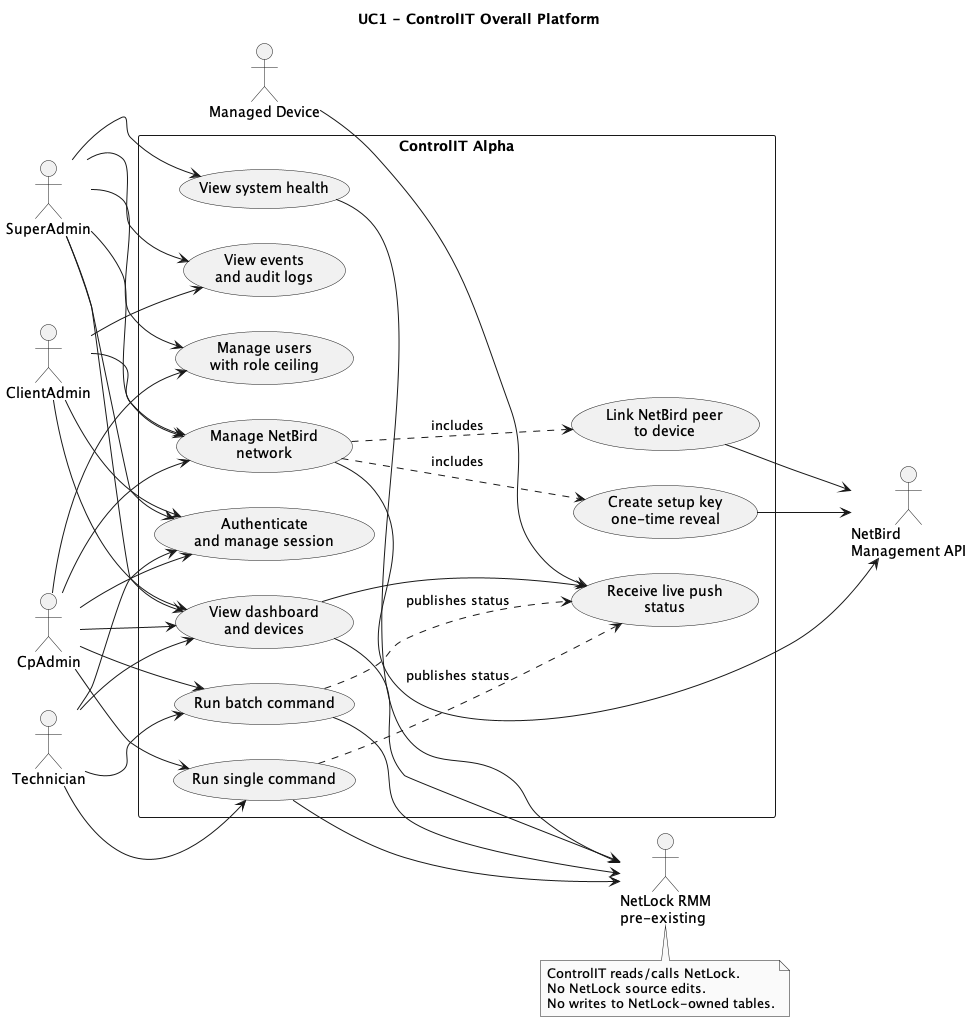
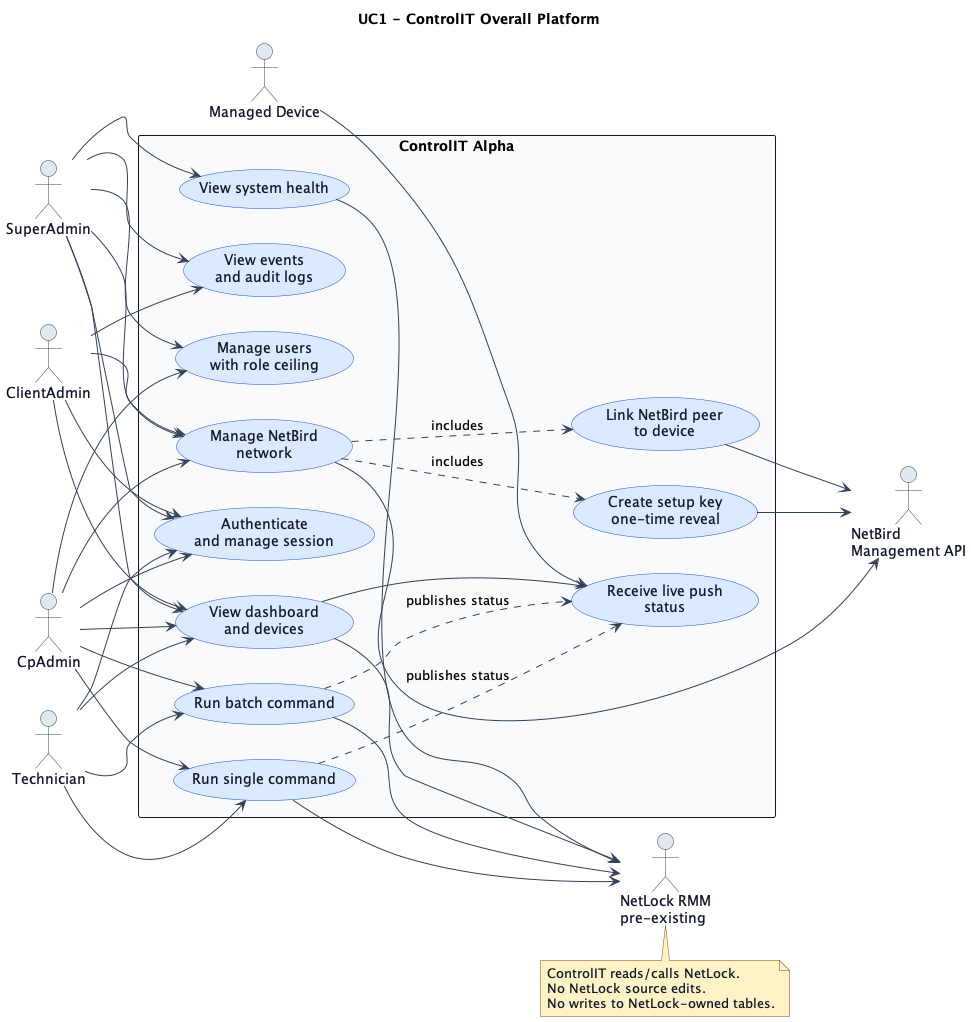
docs: refine UML accuracy and use-case styling

diff --git a/diagrams/sequence/seq-03-netbird-onboarding.md b/diagrams/sequence/seq-03-netbird-onboarding.md
@@ -3,7 +3,8 @@
 ```mermaid
 sequenceDiagram
     autonumber
-    actor Admin as Admin/User
+    actor Admin as SuperAdmin/CpAdmin
+    actor TenantMember as Tenant member
     participant Web as Network Page
     participant API as NetworkEndpoints
     participant Resolver as TenantTargetResolver
@@ -46,7 +47,7 @@ sequenceDiagram
         API-->>Web: Raw key once
     end
 
-    Admin->>Web: List setup keys
+    TenantMember->>Web: List setup keys
     Web->>API: GET /network/setup-keys
     API->>NetBird: List setup keys
     API-->>Web: Keys with key="[redacted]"
